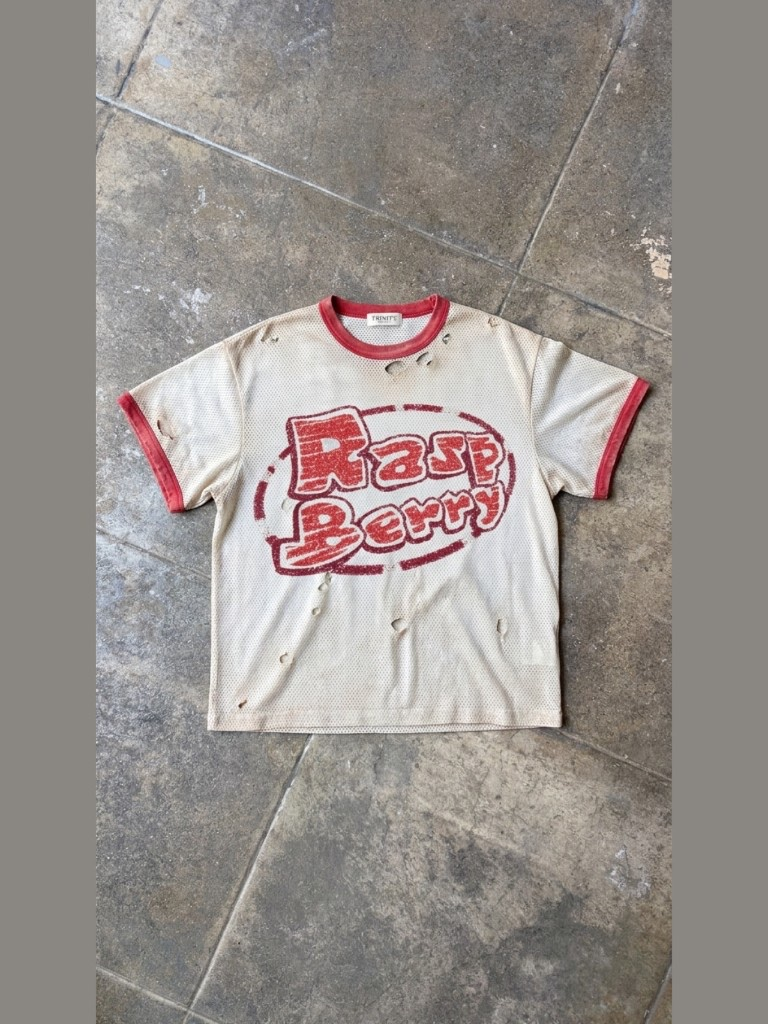
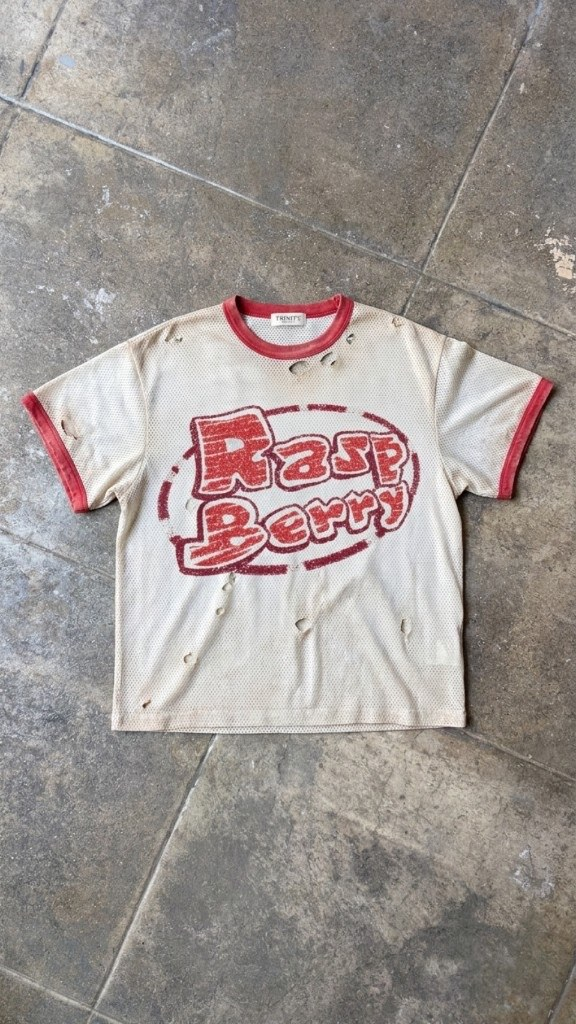
Restyle the hero CTA and crop gray bars from the How it works result.

diff --git a/src/App.tsx b/src/App.tsx
@@ -1071,8 +1071,8 @@ function LandingPage({
           <button
             type="button"
             onClick={onStart}
-            className="mt-3 px-5 py-2.5 rounded-lg bg-white text-[#111] text-sm font-semibold hover:opacity-90 cursor-pointer"
-            style={{ letterSpacing: "0.04em" }}
+            className="mt-3 inline-flex items-center justify-center min-h-[52px] px-10 rounded-full border border-white/15 text-white text-[15px] font-light tracking-[0.02em] cursor-pointer hover:border-white/30 hover:bg-white/5 transition-colors"
+            style={{ backgroundColor: "rgb(0, 2, 11)" }}
           >
             {startLabel}
           </button>
@@ -1106,15 +1106,17 @@ function LandingPage({
               ) : step.n === "02" ? (
                 <PickLookDemo />
               ) : step.img ? (
-                <img
-                  src={step.img}
-                  alt={step.imgLabel}
-                  className={`w-full rounded-xl mb-3 bg-[#f4f4f4] ${
+                <div
+                  className={`w-full rounded-xl mb-3 overflow-hidden ${
                     step.frame === "portrait" ? "aspect-[3/4]" : "aspect-square"
-                  } ${
-                    step.fit === "cover" ? "object-cover" : "object-contain p-4"
                   }`}
-                />
+                >
+                  <img
+                    src={step.img}
+                    alt={step.imgLabel}
+                    className={`w-full h-full ${step.fit === "cover" ? "object-cover" : "object-contain p-4 bg-[#f4f4f4]"}`}
+                  />
+                </div>
               ) : (
                 <div
                   className="w-full aspect-square rounded-xl mb-3 bg-[#f4f4f4] border border-dashed border-[#ddd] flex items-center justify-center"
